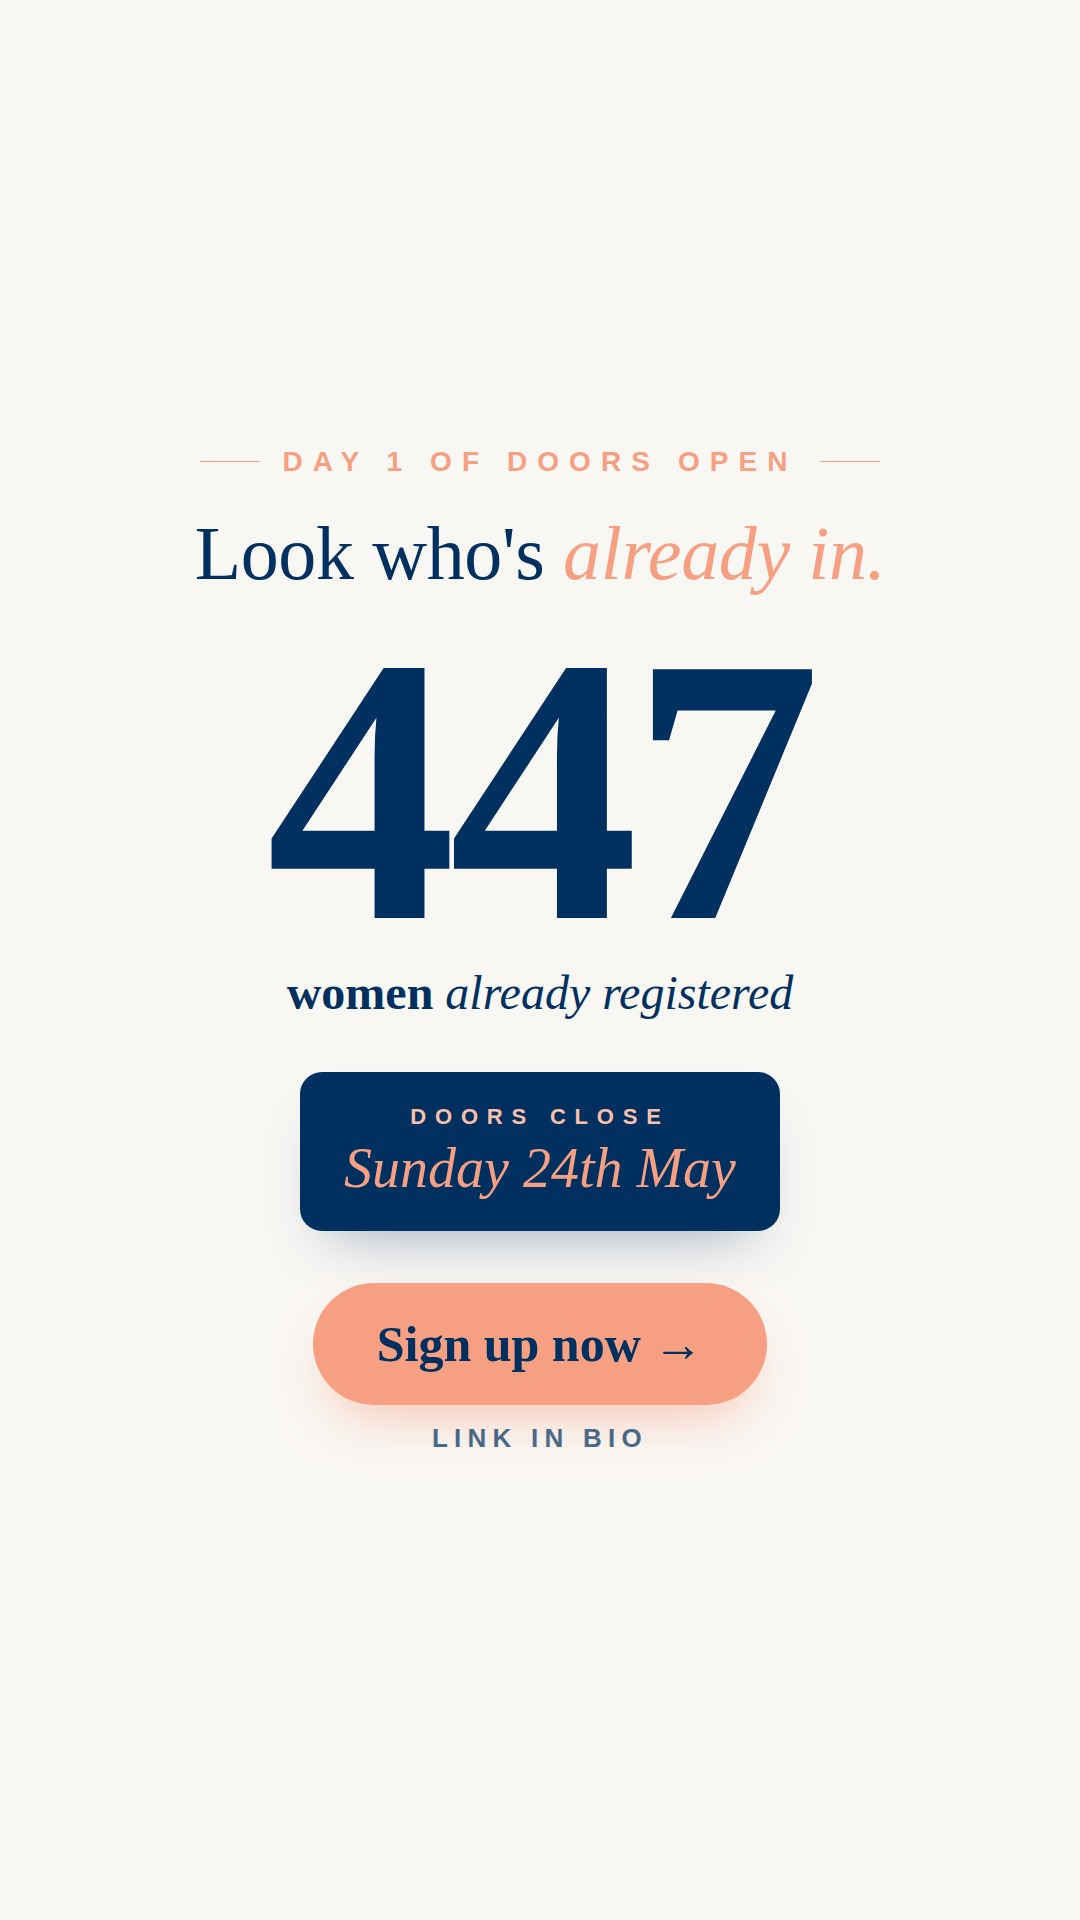
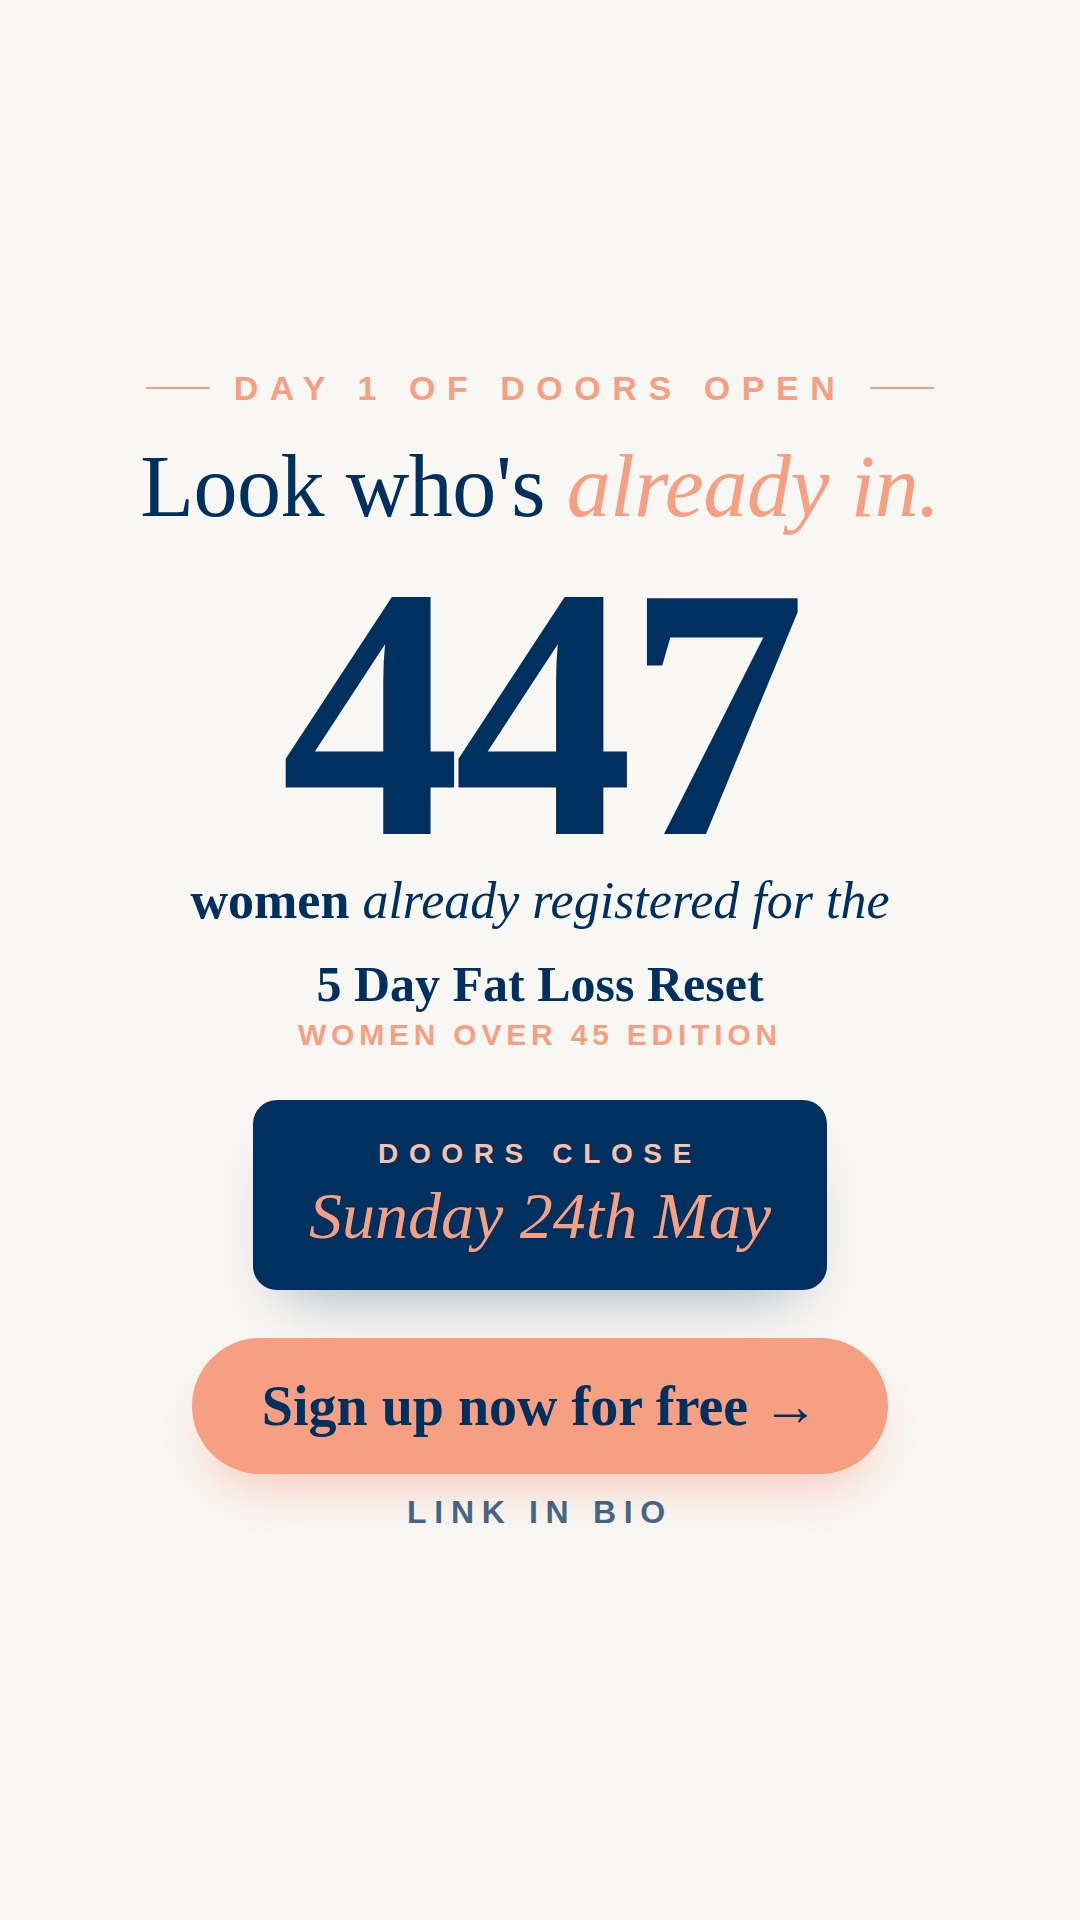
IG recap story: bigger text, add programme name, 'Sign up now for free'
- Scales every text element up (eyebrow, headline, stat-label,
  deadline card, CTA button + sub-line).
- Adds the programme name under the stat: "5 Day Fat Loss Reset" with
  "Women Over 45 Edition" as a coral small-caps sub-line.
- Stat label now reads "women already registered for the".
- CTA button copy: "Sign up now" → "Sign up now for free".

Changed region(s): [[0.1528, 0.1875, 0.8556, 0.8125], [0.7639, 0.4375, 0.825, 0.5], [0.1222, 0.2188, 0.1528, 0.2812]]

diff --git a/ig-stories/05-recap/index.html b/ig-stories/05-recap/index.html
@@ -7,23 +7,26 @@
 <style>
   * { box-sizing: border-box; margin: 0; padding: 0; }
   html, body { width: 1080px; height: 1920px; background: #f9f7f4; font-family: 'Alegreya Sans', sans-serif; color: #003060; overflow: hidden; }
-  .stage { position: relative; width: 1080px; height: 1920px; padding: 210px 80px 230px; display: flex; flex-direction: column; align-items: center; justify-content: center; text-align: center; gap: 52px; }
-  .top { display: flex; flex-direction: column; align-items: center; gap: 34px; }
-  .eyebrow { font-size: 28px; letter-spacing: 0.36em; text-transform: uppercase; color: #f79f83; font-weight: 700; display: inline-flex; align-items: center; gap: 22px; }
-  .eyebrow::before, .eyebrow::after { content: ''; width: 60px; height: 1px; background: #f79f83; }
-  .headline { font-family: 'Libre Baskerville', serif; font-size: 76px; line-height: 1.08; font-weight: 400; letter-spacing: -0.005em; }
+  .stage { position: relative; width: 1080px; height: 1920px; padding: 180px 70px 200px; display: flex; flex-direction: column; align-items: center; justify-content: center; text-align: center; gap: 48px; }
+  .top { display: flex; flex-direction: column; align-items: center; gap: 32px; }
+  .eyebrow { font-size: 34px; letter-spacing: 0.34em; text-transform: uppercase; color: #f79f83; font-weight: 700; display: inline-flex; align-items: center; gap: 24px; }
+  .eyebrow::before, .eyebrow::after { content: ''; width: 64px; height: 2px; background: #f79f83; }
+  .headline { font-family: 'Libre Baskerville', serif; font-size: 88px; line-height: 1.06; font-weight: 400; letter-spacing: -0.005em; }
   .headline em { font-style: italic; color: #f79f83; font-weight: 400; }
-  .stat-block { display: flex; flex-direction: column; align-items: center; gap: 14px; }
-  .stat { font-family: 'Libre Baskerville', serif; font-size: 380px; line-height: 0.85; font-weight: 700; color: #003060; letter-spacing: -0.02em; }
-  .stat-label { font-family: 'Libre Baskerville', serif; font-size: 48px; line-height: 1.15; font-style: italic; color: #003060; }
+  .stat-block { display: flex; flex-direction: column; align-items: center; gap: 10px; }
+  .stat { font-family: 'Libre Baskerville', serif; font-size: 360px; line-height: 0.82; font-weight: 700; color: #003060; letter-spacing: -0.02em; }
+  .stat-label { font-family: 'Libre Baskerville', serif; font-size: 52px; line-height: 1.2; font-style: italic; color: #003060; }
   .stat-label strong { font-style: normal; font-weight: 700; }
-  .deadline-card { background: #003060; color: #fdf6ef; border-radius: 22px; padding: 32px 44px; max-width: 760px; display: flex; flex-direction: column; align-items: center; gap: 8px; box-shadow: 0 30px 60px -30px rgba(0,48,96,0.4); }
-  .deadline-label { font-size: 22px; letter-spacing: 0.4em; text-transform: uppercase; color: #fac0ab; font-weight: 700; }
-  .deadline-date { font-family: 'Libre Baskerville', serif; font-size: 56px; line-height: 1.1; font-weight: 700; }
+  .program { margin-top: 14px; display: flex; flex-direction: column; align-items: center; gap: 6px; }
+  .program-name { font-family: 'Libre Baskerville', serif; font-weight: 700; font-size: 50px; line-height: 1.1; color: #003060; }
+  .program-edition { font-family: 'Alegreya Sans', sans-serif; font-size: 30px; letter-spacing: 0.16em; text-transform: uppercase; color: #f79f83; font-weight: 700; }
+  .deadline-card { background: #003060; color: #fdf6ef; border-radius: 24px; padding: 38px 56px; max-width: 820px; display: flex; flex-direction: column; align-items: center; gap: 10px; box-shadow: 0 30px 60px -30px rgba(0,48,96,0.4); }
+  .deadline-label { font-size: 28px; letter-spacing: 0.38em; text-transform: uppercase; color: #fac0ab; font-weight: 700; }
+  .deadline-date { font-family: 'Libre Baskerville', serif; font-size: 66px; line-height: 1.1; font-weight: 700; }
   .deadline-date em { font-style: italic; color: #f79f83; font-weight: 400; }
-  .cta-group { display: flex; flex-direction: column; align-items: center; gap: 18px; }
-  .cta-btn { background: #f79f83; color: #003060; border-radius: 999px; padding: 32px 64px; font-family: 'Libre Baskerville', serif; font-weight: 700; font-size: 50px; display: inline-flex; align-items: center; gap: 20px; box-shadow: 0 26px 54px -20px rgba(247,159,131,0.65); }
-  .cta-sub { font-family: 'Alegreya Sans', sans-serif; font-size: 26px; letter-spacing: 0.24em; text-transform: uppercase; color: #003060; font-weight: 600; opacity: 0.7; }
+  .cta-group { display: flex; flex-direction: column; align-items: center; gap: 20px; }
+  .cta-btn { background: #f79f83; color: #003060; border-radius: 999px; padding: 36px 70px; font-family: 'Libre Baskerville', serif; font-weight: 700; font-size: 56px; display: inline-flex; align-items: center; gap: 22px; box-shadow: 0 26px 54px -20px rgba(247,159,131,0.65); }
+  .cta-sub { font-family: 'Alegreya Sans', sans-serif; font-size: 32px; letter-spacing: 0.24em; text-transform: uppercase; color: #003060; font-weight: 700; opacity: 0.72; }
 </style></head>
 <body>
   <div class="stage">
@@ -32,7 +35,11 @@
       <div class="headline">Look who's <em>already in.</em></div>
       <div class="stat-block">
         <div class="stat">447</div>
-        <div class="stat-label"><strong>women</strong> already registered</div>
+        <div class="stat-label"><strong>women</strong> already registered for the</div>
+        <div class="program">
+          <div class="program-name">5 Day Fat Loss Reset</div>
+          <div class="program-edition">Women Over 45 Edition</div>
+        </div>
       </div>
     </div>
     <div class="deadline-card">
@@ -40,7 +47,7 @@
       <div class="deadline-date"><em>Sunday 24th May</em></div>
     </div>
     <div class="cta-group">
-      <div class="cta-btn">Sign up now &rarr;</div>
+      <div class="cta-btn">Sign up now for free &rarr;</div>
       <div class="cta-sub">Link in bio</div>
     </div>
   </div>
